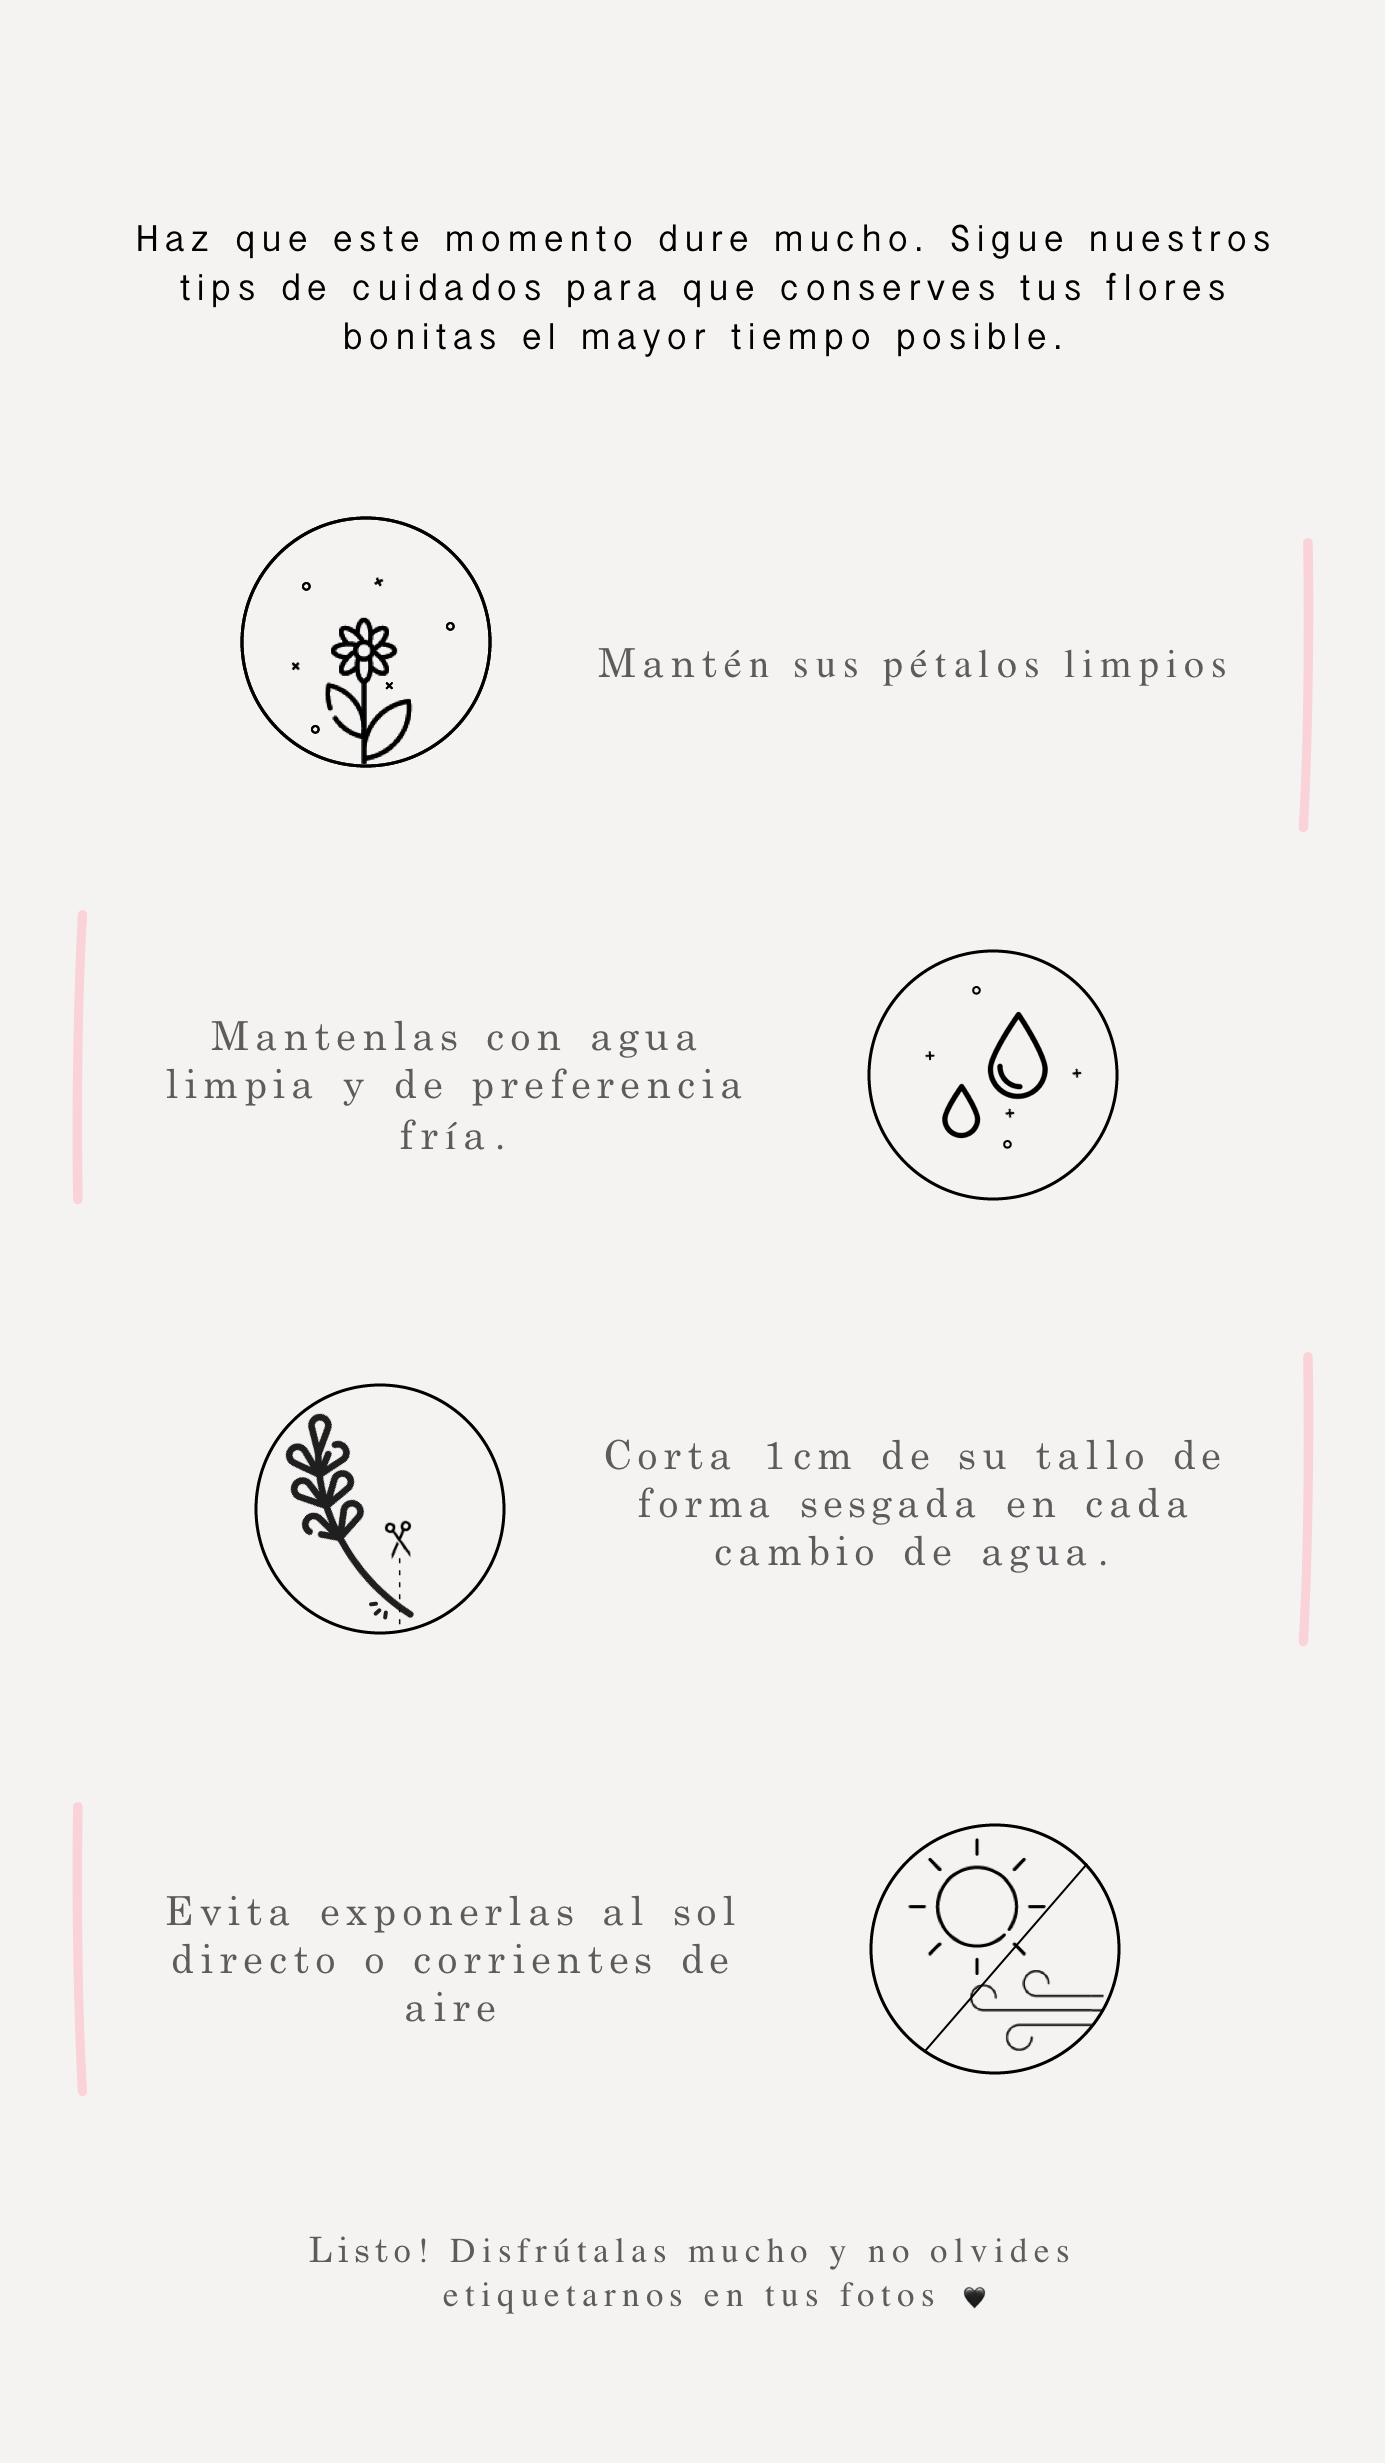
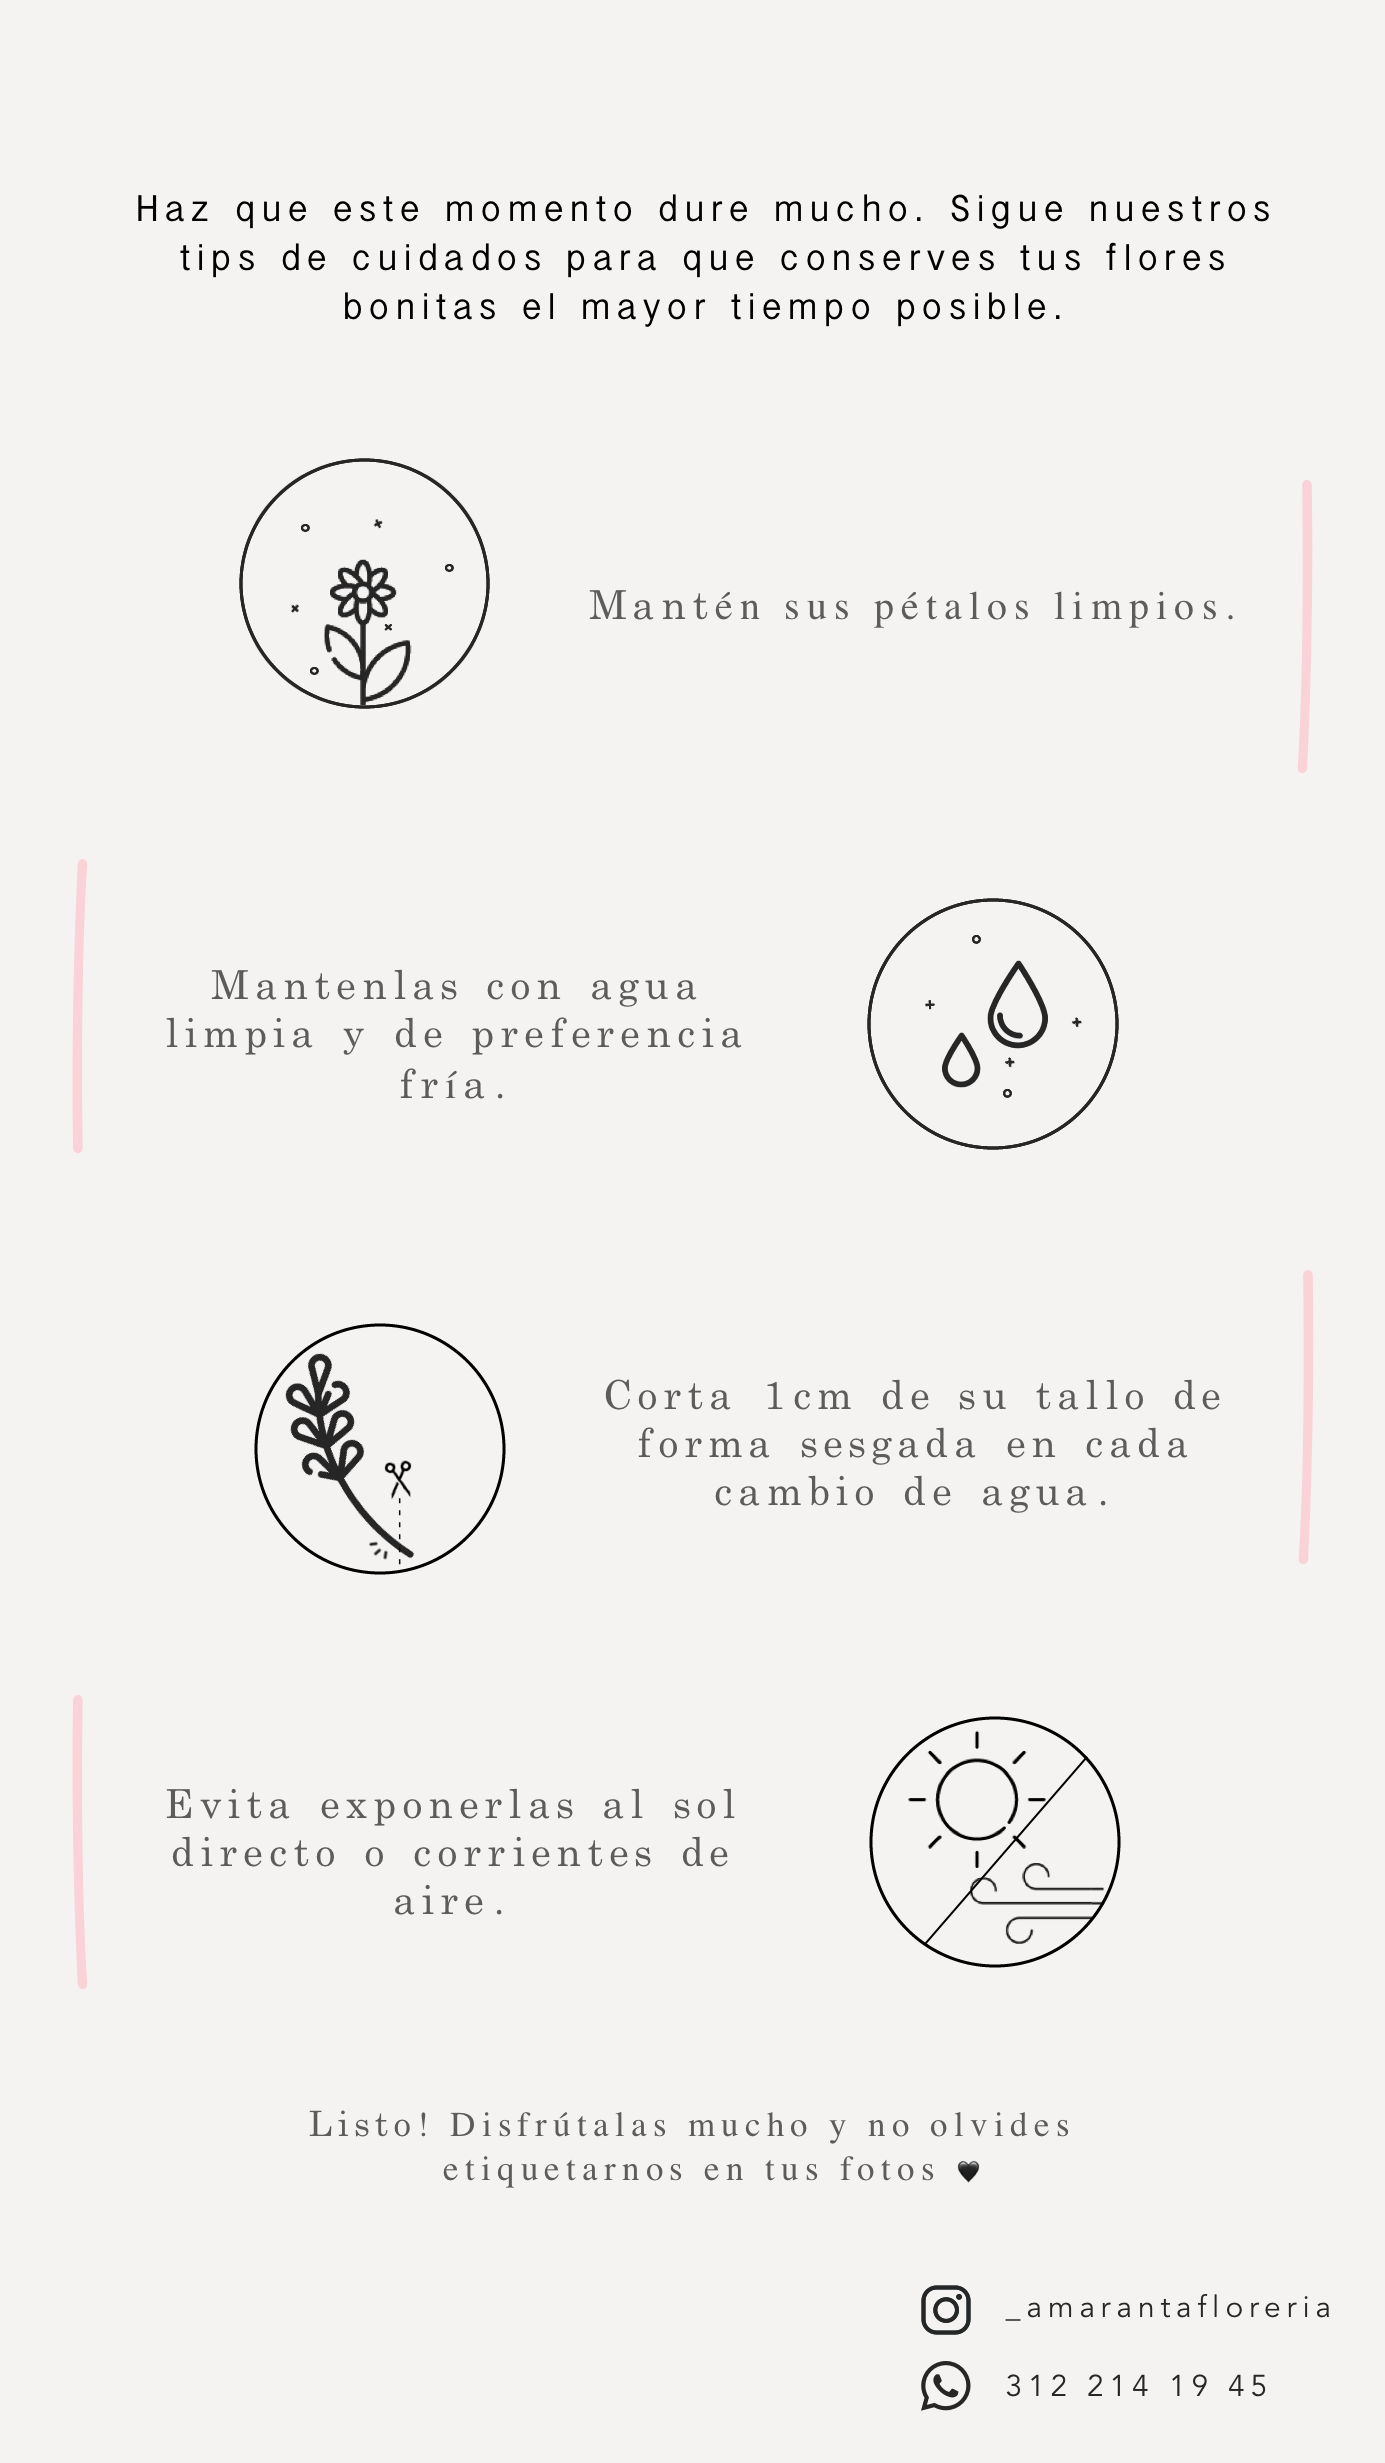
new images. Added social network links

diff --git a/src/app/page.tsx b/src/app/page.tsx
@@ -20,6 +20,11 @@ export default function Home() {
 				priority
 			/>
 			<p className='text-[50px] text-[#d89f94] tracking-wide  animate-pulse'>Amaranta</p>
+
+			<div className='flex flex-col sm:flex-row space-x-4 space-y-4 sm:space-y-0 '>
+				<Link className='text-base tracking-wide' href="https://www.instagram.com/_amarantafloreria/">Instagram</Link>
+				<Link className='text-base tracking-wide' href="https://api.whatsapp.com/message/FNMQNSMSPFDLE1?autoload=1&app_absent=0">Whatsapp</Link>
+			</div>
 		</div>
 	)
 }
